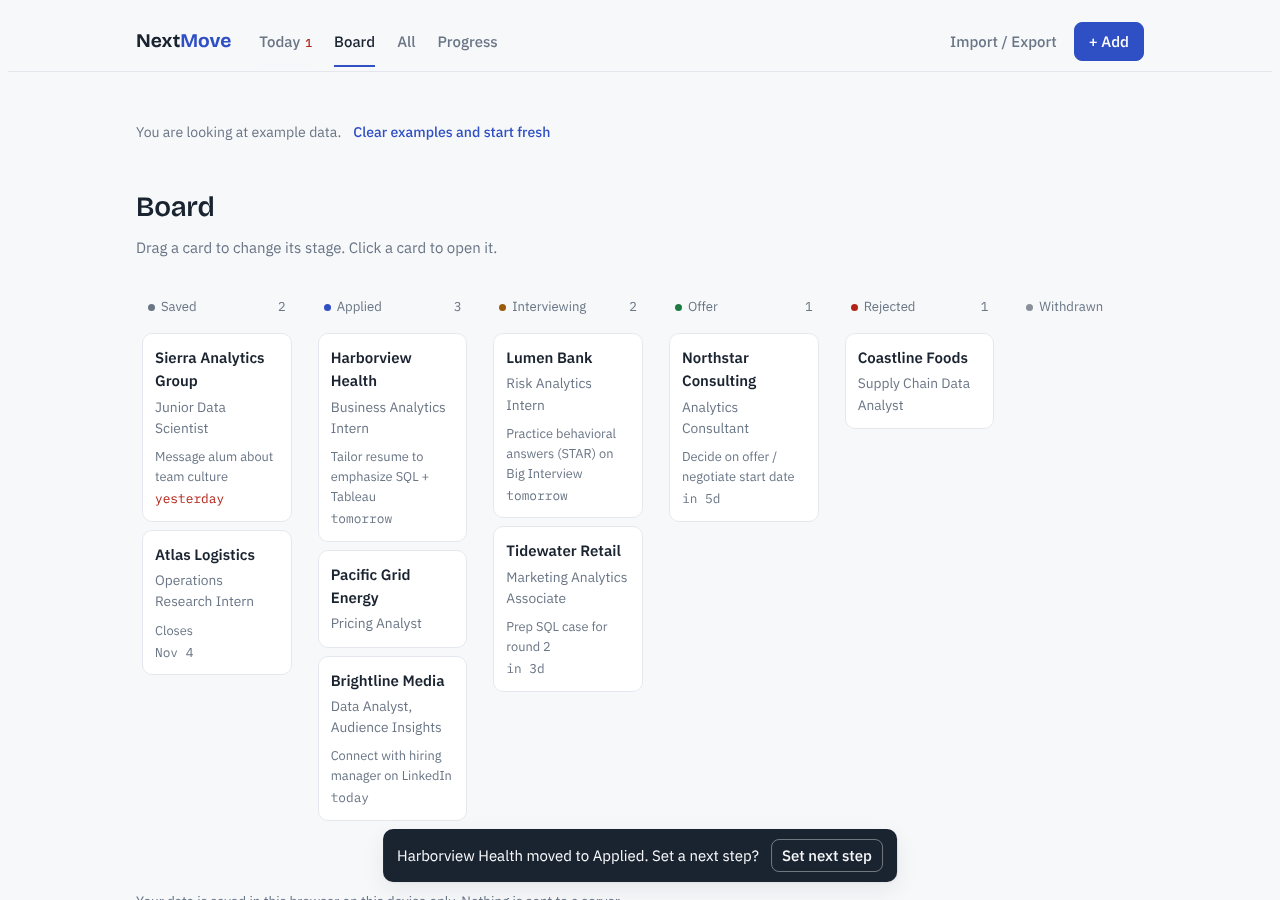
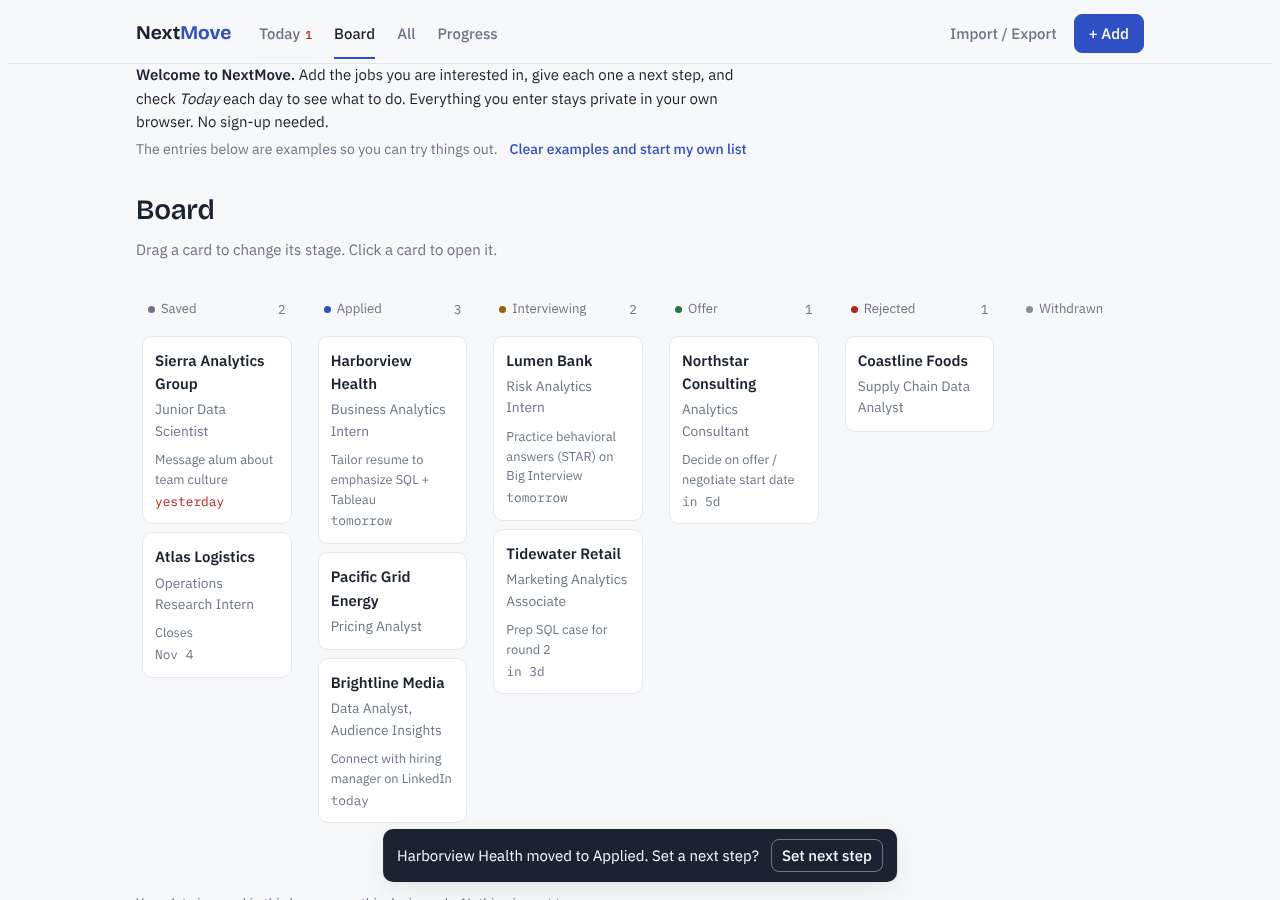
Add first-visit welcome so new users can start without help
Claude-Session: https://claude.ai/code/session_01RYb3hSzRgascA6Fz2tBQ2N

diff --git a/index.html b/index.html
@@ -81,6 +81,8 @@ main > * { min-width: 0; }
 
 .note { display: flex; flex-wrap: wrap; align-items: baseline; gap: 4px 12px; color: var(--muted); font-size: .88rem; }
 .note.warn { color: var(--warn); }
+.welcome { display: grid; gap: 6px; max-width: 70ch; }
+.welcome p { margin: 0; }
 .note button { padding: 0; border: 0; background: none; color: var(--accent); font-weight: 500; }
 .note button:hover { text-decoration: underline; }
 
@@ -410,7 +412,9 @@ footer button { padding: 0; border: 0; background: none; color: var(--accent); f
     var h = "";
     if (!storageOK) h += '<p class="note warn">Saving is blocked in this browser (private window or blocked site data), so changes will be lost when you close the tab.</p>';
     if (state.opps.some(function (o) { return o.example; }))
-      h += '<p class="note"><span>You are looking at example data.</span><button type="button" data-act="clear-examples">Clear examples and start fresh</button></p>';
+      h += '<div class="welcome"><p><strong>Welcome to NextMove.</strong> Add the jobs you are interested in, give each one a next step, and check <em>Today</em> each day to see what to do. ' +
+        'Everything you enter stays private in your own browser. No sign-up needed.</p>' +
+        '<p class="note"><span>The entries below are examples so you can try things out.</span><button type="button" data-act="clear-examples">Clear examples and start my own list</button></p></div>';
     $("#banners").innerHTML = h;
     $("#banners").hidden = !h;
   }

diff --git a/README.md b/README.md
@@ -27,6 +27,10 @@ A graduate student tracking 10 to 50 opportunities across saved postings, applic
 5. **Paste a job description.** Fills in title, company, location, work arrangement, deadline, and link. *This is rule-based text matching that runs in the browser, not AI*, and it's labeled that way in the app.
 6. Also: interest level (high/medium/low) used to rank tasks, resume/cover-letter version sent, network contact, stage history, undo on moves and deletes.
 
+## Using it yourself
+
+Anyone can use the live link. There is no sign-up: open https://carlywaldeck.github.io/job-tracker/, click **Clear examples and start my own list**, and start adding jobs. Each person's list is private to their own browser, so many people can use the same link without seeing each other's data.
+
 ## Where the data is stored
 
 Everything is saved in the browser's `localStorage` on the device you use. No account, no server. Clearing browser data or switching computers loses it, so use **Import / Export → Download backup** to keep a copy or move it.
